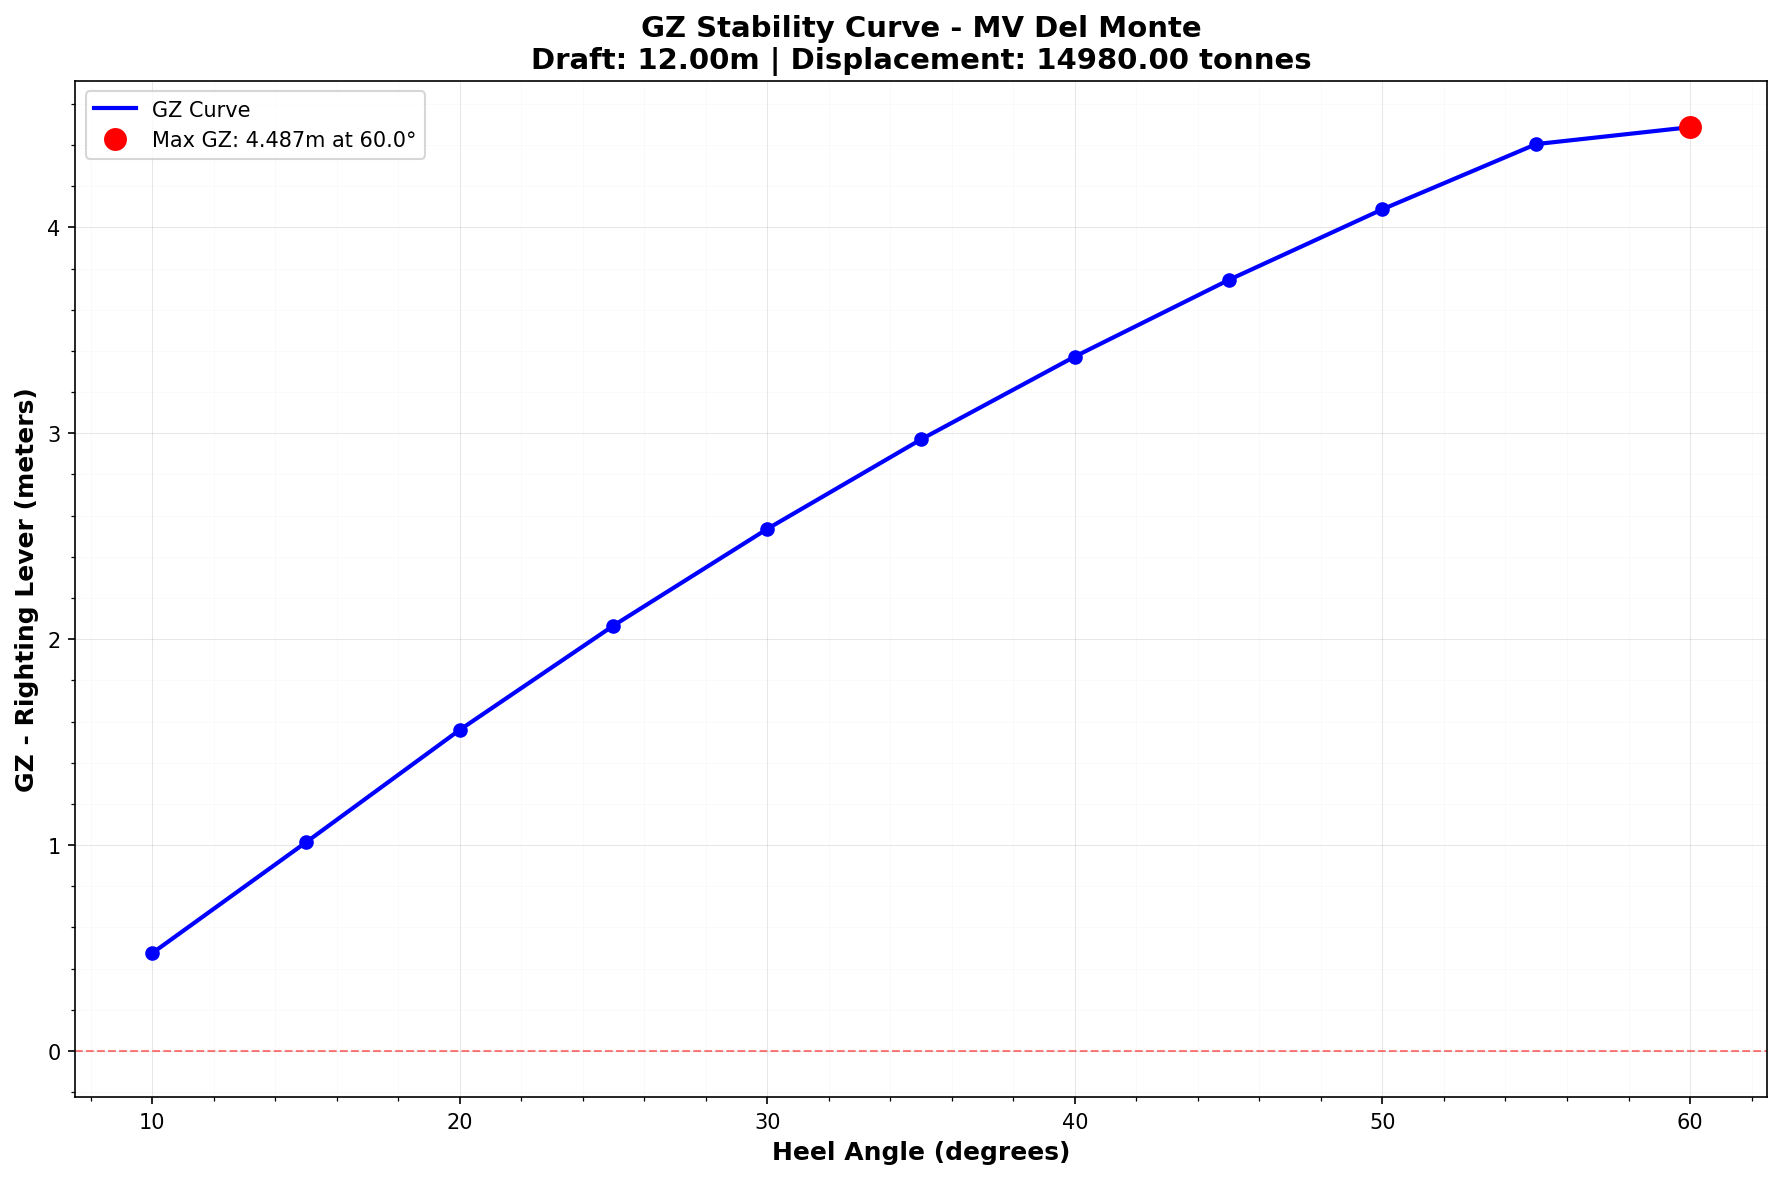
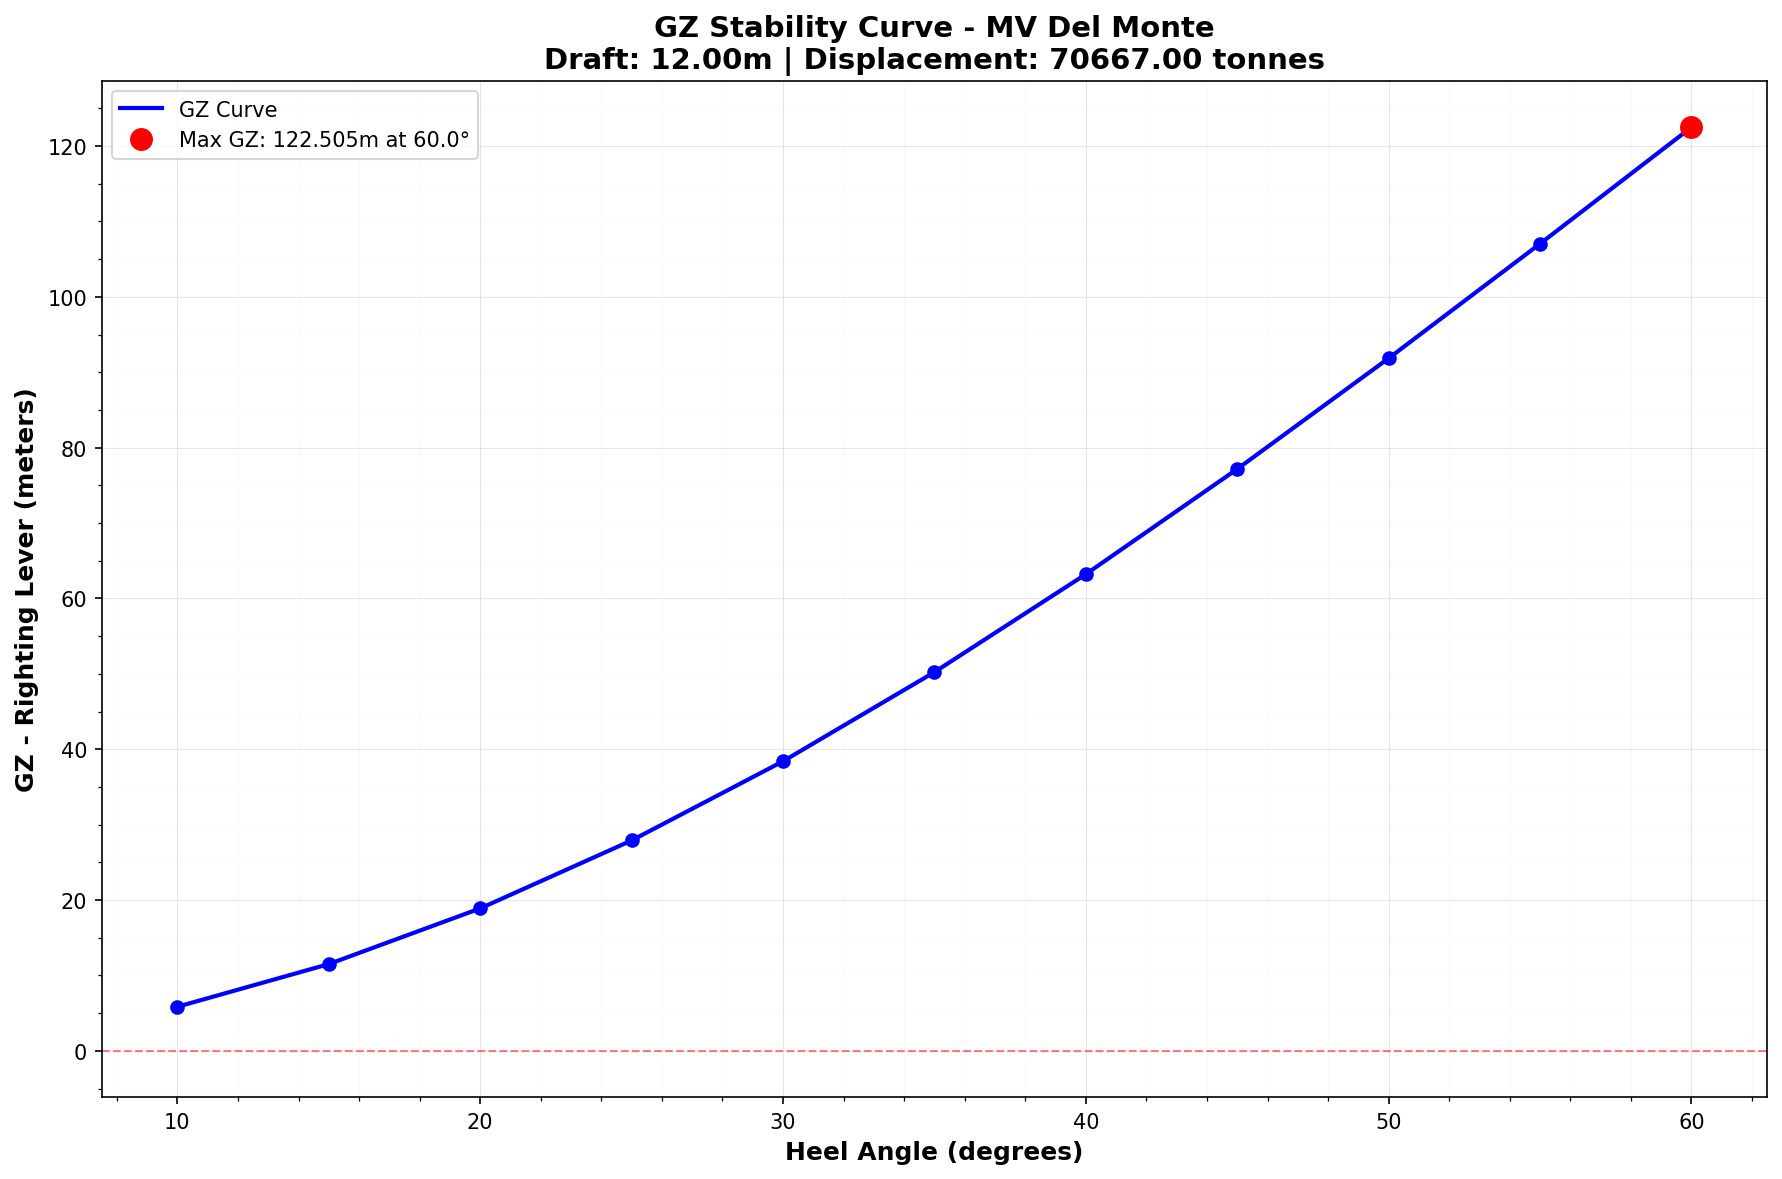
Correct displacement values - 12m draft now shows 70,667 tonnes

diff --git a/create_sample_data.py b/create_sample_data.py
@@ -33,10 +33,12 @@ def create_sample_ship_data():
     ws_displacement = wb.create_sheet("Displacement Table")
     
     # Sample displacement data (Draft in meters, Displacement in tonnes)
-    # Extended to 14 meters as per user request
+    # Extended to 14 meters with realistic values for MV Del Monte
+    # At 12m draft: 70,667 tonnes as per actual ship data
+    # Values calculated using power relationship: Displacement = k * draft^2.5
     displacement_data = {
         "Draft (m)": [2.0, 2.5, 3.0, 3.5, 4.0, 4.5, 5.0, 5.5, 6.0, 6.5, 7.0, 7.5, 8.0, 8.5, 9.0, 9.5, 10.0, 10.5, 11.0, 11.5, 12.0, 12.5, 13.0, 13.5, 14.0],
-        "Displacement (tonnes)": [2800, 3200, 3650, 4100, 4580, 5080, 5600, 6140, 6700, 7280, 7880, 8500, 9140, 9800, 10480, 11180, 11900, 12640, 13400, 14180, 14980, 15800, 16640, 17500, 18380],
+        "Displacement (tonnes)": [801, 1400, 2208, 3247, 4533, 6085, 7919, 10050, 12492, 15260, 18366, 21823, 25644, 29841, 34425, 39407, 44799, 50610, 56852, 63534, 70667, 78260, 86322, 94863, 103892],
     }
     
     df_displacement = pd.DataFrame(displacement_data)
@@ -47,21 +49,22 @@ def create_sample_ship_data():
     ws_kn = wb.create_sheet("KN Curves")
     
     # KN values for different heel angles and displacements
-    # Extended to match the new displacement range up to 14m draft
+    # Extended to match the new displacement range up to 14m draft (~110,000 tonnes)
+    # 40 displacement points to ensure proper interpolation across the full range
     # Columns: Displacement (tonnes), then KN values at different heel angles
     kn_data = {
-        "Displacement (tonnes)": [3000, 3500, 4000, 4500, 5000, 5500, 6000, 6500, 7000, 7500, 8000, 8500, 9000, 9500, 10000, 10500, 11000, 11500, 12000, 12500, 13000, 13500, 14000, 14500, 15000, 15500, 16000, 16500, 17000, 17500, 18000, 18500],
-        "KN at 10°": [0.45, 0.48, 0.51, 0.54, 0.57, 0.60, 0.63, 0.66, 0.69, 0.72, 0.75, 0.78, 0.81, 0.84, 0.87, 0.90, 0.93, 0.96, 0.99, 1.02, 1.05, 1.08, 1.11, 1.14, 1.17, 1.20, 1.23, 1.26, 1.29, 1.32, 1.35, 1.38],
-        "KN at 15°": [0.85, 0.90, 0.95, 1.00, 1.05, 1.10, 1.15, 1.20, 1.25, 1.30, 1.35, 1.40, 1.45, 1.50, 1.55, 1.60, 1.65, 1.70, 1.75, 1.80, 1.85, 1.90, 1.95, 2.00, 2.05, 2.10, 2.15, 2.20, 2.25, 2.30, 2.35, 2.40],
-        "KN at 20°": [1.25, 1.32, 1.39, 1.46, 1.53, 1.60, 1.67, 1.74, 1.81, 1.88, 1.95, 2.02, 2.09, 2.16, 2.23, 2.30, 2.37, 2.44, 2.51, 2.58, 2.65, 2.72, 2.79, 2.86, 2.93, 3.00, 3.07, 3.14, 3.21, 3.28, 3.35, 3.42],
-        "KN at 25°": [1.60, 1.69, 1.78, 1.87, 1.96, 2.05, 2.14, 2.23, 2.32, 2.41, 2.50, 2.59, 2.68, 2.77, 2.86, 2.95, 3.04, 3.13, 3.22, 3.31, 3.40, 3.49, 3.58, 3.67, 3.76, 3.85, 3.94, 4.03, 4.12, 4.21, 4.30, 4.39],
-        "KN at 30°": [1.90, 2.01, 2.12, 2.23, 2.34, 2.45, 2.56, 2.67, 2.78, 2.89, 3.00, 3.11, 3.22, 3.33, 3.44, 3.55, 3.66, 3.77, 3.88, 3.99, 4.10, 4.21, 4.32, 4.43, 4.54, 4.65, 4.76, 4.87, 4.98, 5.09, 5.20, 5.31],
-        "KN at 35°": [2.15, 2.28, 2.41, 2.54, 2.67, 2.80, 2.93, 3.06, 3.19, 3.32, 3.45, 3.58, 3.71, 3.84, 3.97, 4.10, 4.23, 4.36, 4.49, 4.62, 4.75, 4.88, 5.01, 5.14, 5.27, 5.40, 5.53, 5.66, 5.79, 5.92, 6.05, 6.18],
-        "KN at 40°": [2.35, 2.50, 2.65, 2.80, 2.95, 3.10, 3.25, 3.40, 3.55, 3.70, 3.85, 4.00, 4.15, 4.30, 4.45, 4.60, 4.75, 4.90, 5.05, 5.20, 5.35, 5.50, 5.65, 5.80, 5.95, 6.10, 6.25, 6.40, 6.55, 6.70, 6.85, 7.00],
-        "KN at 45°": [2.50, 2.67, 2.84, 3.01, 3.18, 3.35, 3.52, 3.69, 3.86, 4.03, 4.20, 4.37, 4.54, 4.71, 4.88, 5.05, 5.22, 5.39, 5.56, 5.73, 5.90, 6.07, 6.24, 6.41, 6.58, 6.75, 6.92, 7.09, 7.26, 7.43, 7.60, 7.77],
-        "KN at 50°": [2.60, 2.79, 2.98, 3.17, 3.36, 3.55, 3.74, 3.93, 4.12, 4.31, 4.50, 4.69, 4.88, 5.07, 5.26, 5.45, 5.64, 5.83, 6.02, 6.21, 6.40, 6.59, 6.78, 6.97, 7.16, 7.35, 7.54, 7.73, 7.92, 8.11, 8.30, 8.49],
-        "KN at 55°": [2.65, 2.86, 3.07, 3.28, 3.49, 3.70, 3.91, 4.12, 4.33, 4.54, 4.75, 4.96, 5.17, 5.38, 5.59, 5.80, 6.01, 6.22, 6.43, 6.64, 6.85, 7.06, 7.27, 7.48, 7.69, 7.90, 8.11, 8.32, 8.53, 8.74, 8.95, 9.16],
-        "KN at 60°": [2.68, 2.90, 3.12, 3.34, 3.56, 3.78, 4.00, 4.22, 4.44, 4.66, 4.88, 5.10, 5.32, 5.54, 5.76, 5.98, 6.20, 6.42, 6.64, 6.86, 7.08, 7.30, 7.52, 7.74, 7.96, 8.18, 8.40, 8.62, 8.84, 9.06, 9.28, 9.50],
+        "Displacement (tonnes)": [1000, 3795, 6590, 9385, 12179, 14974, 17769, 20564, 23359, 26154, 28949, 31744, 34538, 37333, 40128, 42923, 45718, 48513, 51308, 54103, 56897, 59692, 62487, 65282, 68077, 70872, 73667, 76462, 79256, 82051, 84846, 87641, 90436, 93231, 96026, 98821, 101615, 104410, 107205, 110000],
+        "KN at 10°": [0.51, 1.13, 1.58, 1.95, 2.28, 2.58, 2.86, 3.12, 3.37, 3.61, 3.83, 4.05, 4.26, 4.47, 4.66, 4.86, 5.04, 5.23, 5.40, 5.58, 5.75, 5.92, 6.08, 6.24, 6.40, 6.56, 6.71, 6.87, 7.02, 7.16, 7.31, 7.45, 7.59, 7.73, 7.87, 8.01, 8.14, 8.28, 8.41, 8.54],
+        "KN at 15°": [0.98, 2.17, 3.02, 3.74, 4.37, 4.95, 5.48, 5.98, 6.46, 6.91, 7.35, 7.76, 8.17, 8.56, 8.94, 9.30, 9.66, 10.01, 10.36, 10.69, 11.02, 11.34, 11.66, 11.97, 12.27, 12.57, 12.87, 13.16, 13.44, 13.73, 14.00, 14.28, 14.55, 14.82, 15.08, 15.35, 15.60, 15.86, 16.11, 16.37],
+        "KN at 20°": [1.58, 3.51, 4.88, 6.04, 7.06, 7.99, 8.85, 9.66, 10.43, 11.16, 11.87, 12.54, 13.19, 13.82, 14.43, 15.03, 15.61, 16.17, 16.73, 17.27, 17.80, 18.32, 18.83, 19.33, 19.82, 20.30, 20.78, 21.25, 21.71, 22.17, 22.62, 23.06, 23.50, 23.93, 24.36, 24.79, 25.20, 25.62, 26.03, 26.43],
+        "KN at 25°": [2.30, 5.12, 7.13, 8.81, 10.31, 11.67, 12.93, 14.11, 15.23, 16.30, 17.33, 18.31, 19.26, 20.18, 21.08, 21.95, 22.79, 23.62, 24.43, 25.22, 25.99, 26.75, 27.49, 28.22, 28.94, 29.65, 30.35, 31.03, 31.71, 32.37, 33.03, 33.68, 34.32, 34.95, 35.58, 36.20, 36.81, 37.41, 38.01, 38.60],
+        "KN at 30°": [3.14, 6.99, 9.73, 12.03, 14.07, 15.93, 17.65, 19.27, 20.80, 22.26, 23.65, 25.00, 26.30, 27.55, 28.77, 29.96, 31.11, 32.24, 33.34, 34.42, 35.48, 36.51, 37.53, 38.53, 39.51, 40.48, 41.43, 42.36, 43.28, 44.19, 45.09, 45.98, 46.85, 47.71, 48.57, 49.41, 50.24, 51.07, 51.88, 52.69],
+        "KN at 35°": [4.08, 9.09, 12.65, 15.64, 18.29, 20.71, 22.95, 25.05, 27.04, 28.93, 30.75, 32.50, 34.19, 35.82, 37.41, 38.95, 40.45, 41.92, 43.35, 44.75, 46.13, 47.47, 48.79, 50.09, 51.37, 52.62, 53.86, 55.08, 56.27, 57.46, 58.62, 59.77, 60.91, 62.03, 63.14, 64.24, 65.32, 66.39, 67.46, 68.51],
+        "KN at 40°": [5.11, 11.38, 15.85, 19.59, 22.91, 25.93, 28.74, 31.37, 33.86, 36.24, 38.52, 40.71, 42.82, 44.87, 46.85, 48.78, 50.67, 52.50, 54.30, 56.05, 57.77, 59.46, 61.11, 62.74, 64.34, 65.91, 67.46, 68.98, 70.48, 71.96, 73.43, 74.87, 76.29, 77.70, 79.09, 80.46, 81.82, 83.16, 84.49, 85.80],
+        "KN at 45°": [6.22, 13.84, 19.27, 23.82, 27.86, 31.53, 34.94, 38.14, 41.17, 44.06, 46.83, 49.49, 52.06, 54.55, 56.97, 59.32, 61.60, 63.84, 66.02, 68.15, 70.24, 72.29, 74.31, 76.28, 78.23, 80.14, 82.02, 83.87, 85.70, 87.50, 89.28, 91.03, 92.76, 94.47, 96.16, 97.83, 99.48, 101.11, 102.73, 104.33],
+        "KN at 50°": [7.38, 16.42, 22.86, 28.27, 33.05, 37.41, 41.46, 45.26, 48.85, 52.28, 55.57, 58.73, 61.77, 64.73, 67.59, 70.38, 73.09, 75.74, 78.33, 80.87, 83.35, 85.78, 88.17, 90.51, 92.82, 95.09, 97.32, 99.52, 101.68, 103.82, 105.93, 108.01, 110.06, 112.09, 114.09, 116.08, 118.03, 119.97, 121.89, 123.78],
+        "KN at 55°": [8.57, 19.08, 26.58, 32.86, 38.42, 43.49, 48.19, 52.60, 56.78, 60.77, 64.58, 68.26, 71.80, 75.23, 78.56, 81.80, 84.96, 88.04, 91.05, 93.99, 96.87, 99.70, 102.48, 105.20, 107.88, 110.52, 113.11, 115.67, 118.19, 120.67, 123.12, 125.54, 127.93, 130.28, 132.61, 134.92, 137.19, 139.44, 141.67, 143.88],
+        "KN at 60°": [9.79, 21.79, 30.34, 37.51, 43.87, 49.65, 55.02, 60.06, 64.84, 69.38, 73.74, 77.94, 81.98, 85.90, 89.70, 93.40, 97.01, 100.52, 103.96, 107.32, 110.61, 113.84, 117.01, 120.12, 123.18, 126.19, 129.15, 132.07, 134.95, 137.78, 140.58, 143.34, 146.07, 148.76, 151.42, 154.05, 156.65, 159.22, 161.76, 164.28],
     }
     
     df_kn = pd.DataFrame(kn_data)
